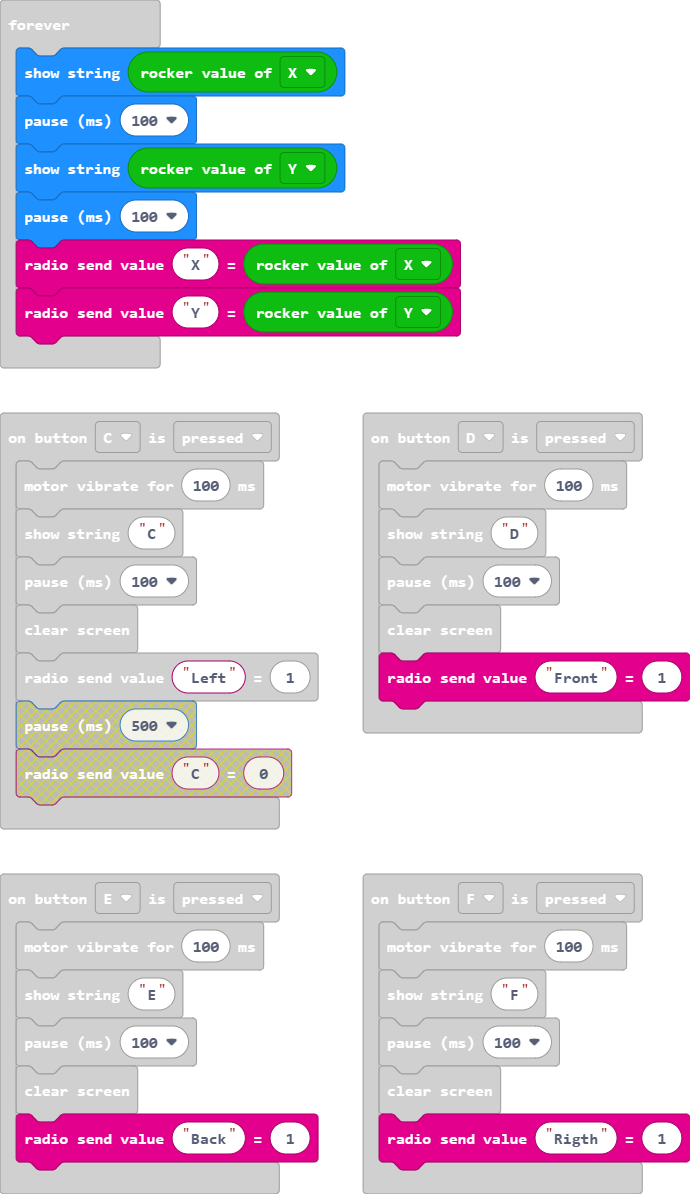
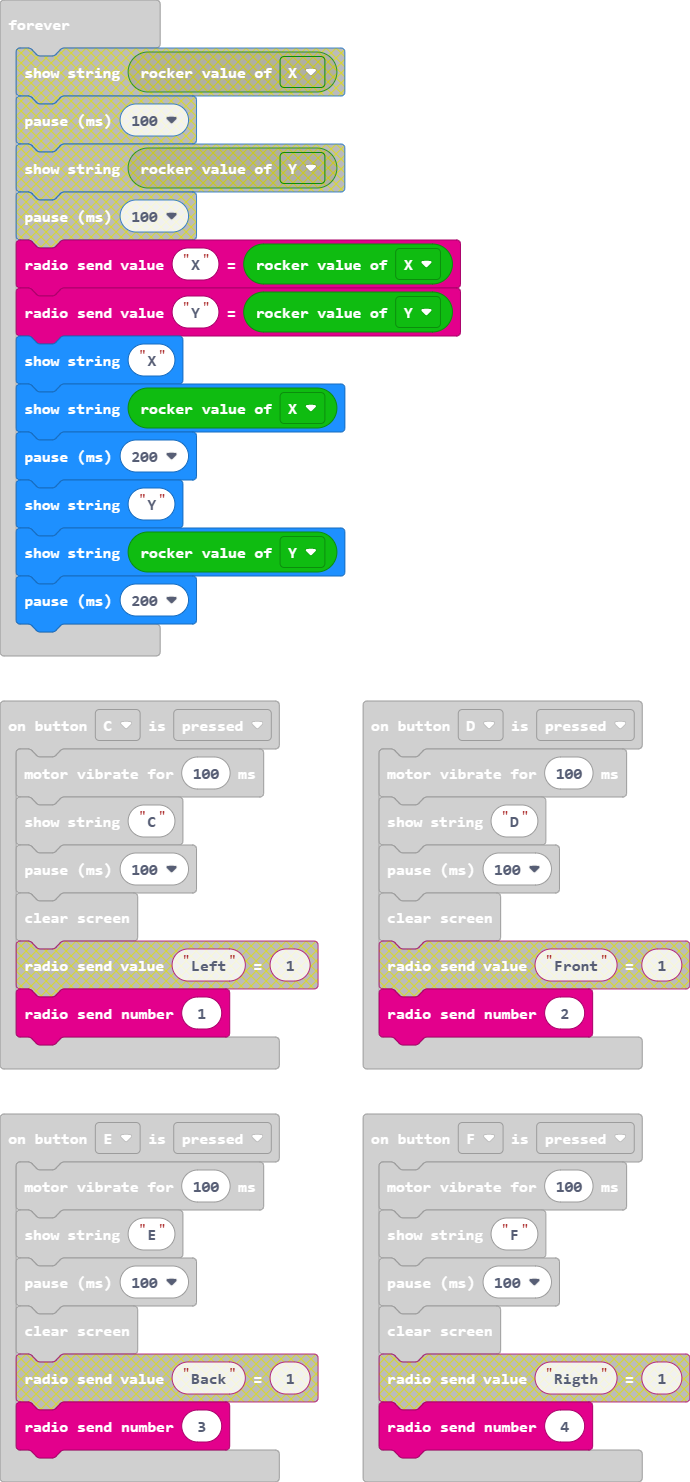
Update main.blocks, main.ts

diff --git a/main.ts b/main.ts
@@ -3,38 +3,40 @@ joystickbit.onButtonEvent(joystickbit.JoystickBitPin.P14, joystickbit.ButtonType
     basic.showString("E")
     basic.pause(100)
     basic.clearScreen()
-    radio.sendValue("Back", 1)
+    radio.sendNumber(3)
 })
 joystickbit.onButtonEvent(joystickbit.JoystickBitPin.P15, joystickbit.ButtonType.down, function () {
     joystickbit.Vibration_Motor(100)
     basic.showString("F")
     basic.pause(100)
     basic.clearScreen()
-    radio.sendValue("Rigth", 1)
+    radio.sendNumber(4)
 })
 joystickbit.onButtonEvent(joystickbit.JoystickBitPin.P13, joystickbit.ButtonType.down, function () {
     joystickbit.Vibration_Motor(100)
     basic.showString("D")
     basic.pause(100)
     basic.clearScreen()
-    radio.sendValue("Front", 1)
+    radio.sendNumber(2)
 })
 joystickbit.onButtonEvent(joystickbit.JoystickBitPin.P12, joystickbit.ButtonType.down, function () {
     joystickbit.Vibration_Motor(100)
     basic.showString("C")
     basic.pause(100)
     basic.clearScreen()
-    radio.sendValue("Left", 1)
+    radio.sendNumber(1)
 })
 joystickbit.initJoystickBit()
 joystickbit.Vibration_Motor(100)
 radio.setGroup(7)
 radio.sendNumber(7)
 basic.forever(function () {
-    basic.showString("" + (joystickbit.getRockerValue(joystickbit.rockerType.X)))
-    basic.pause(100)
-    basic.showString("" + (joystickbit.getRockerValue(joystickbit.rockerType.Y)))
-    basic.pause(100)
     radio.sendValue("X", joystickbit.getRockerValue(joystickbit.rockerType.X))
     radio.sendValue("Y", joystickbit.getRockerValue(joystickbit.rockerType.Y))
+    basic.showString("X")
+    basic.showString("" + (joystickbit.getRockerValue(joystickbit.rockerType.X)))
+    basic.pause(200)
+    basic.showString("Y")
+    basic.showString("" + (joystickbit.getRockerValue(joystickbit.rockerType.Y)))
+    basic.pause(200)
 })
